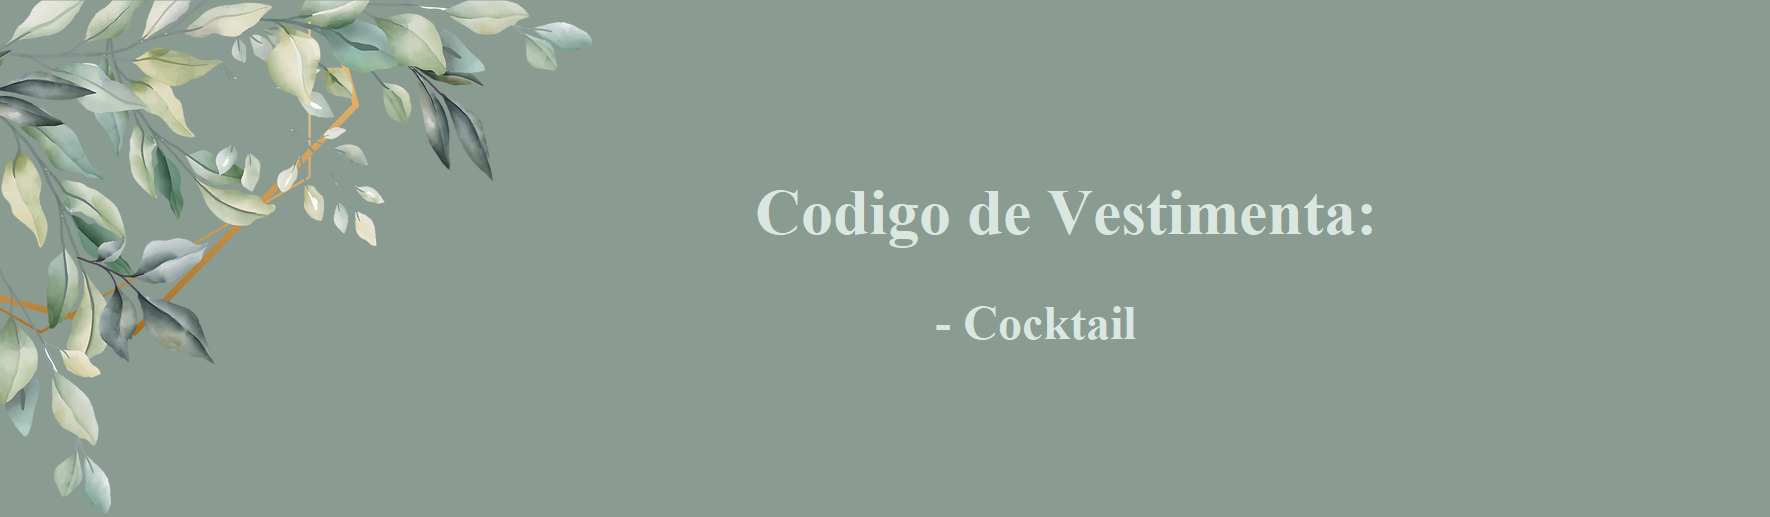
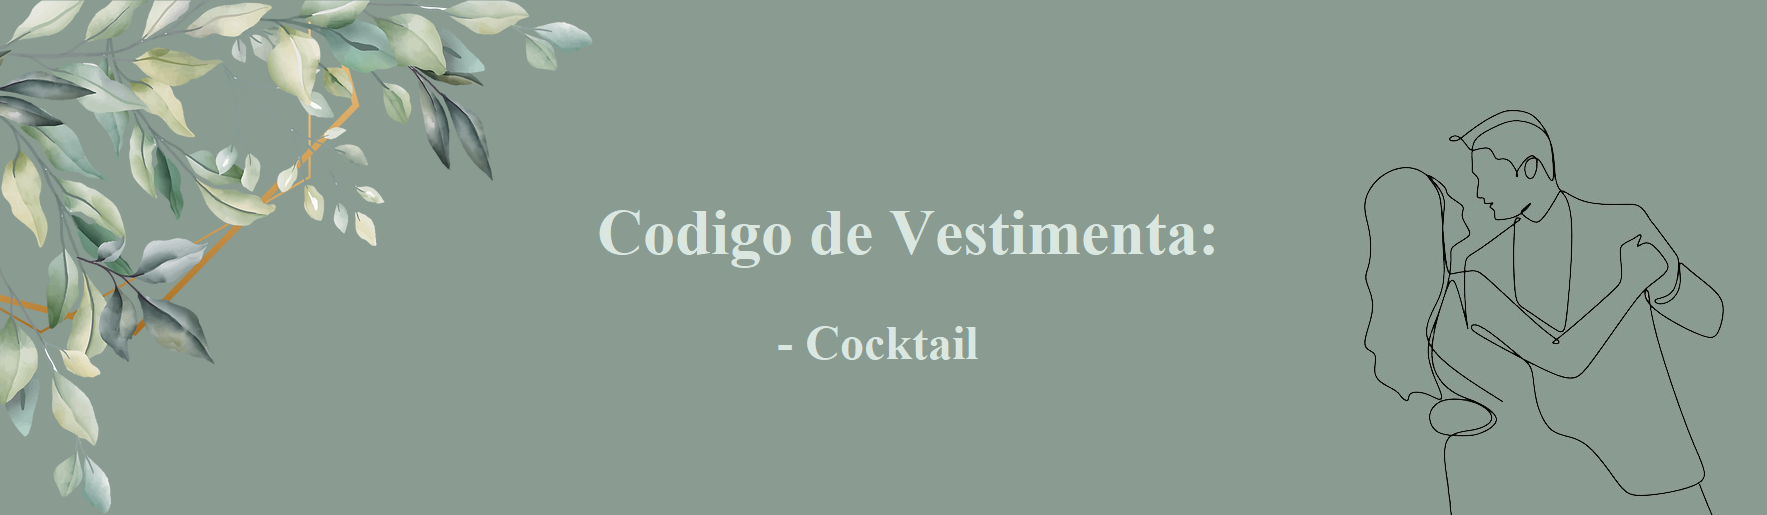
seccion cofre y edit img dresscode

diff --git a/src/components/LayoutCofre.jsx b/src/components/LayoutCofre.jsx
@@ -1,0 +1,63 @@
+import React from 'react'
+import '../assets/styles/layouts.css'
+
+export const LayoutCofre = () => {
+    const imgStr= '/src/assets/img/InvitacionOriginaria12.png';
+    const imageStr = (
+        <img
+            src={imgStr}
+            alt='transicionStr'
+            width={160}
+            height={140}
+        />
+  )
+  const rings= '/src/assets/img/chest.jpg';
+  const imageRings = (
+      <img
+          src={rings}
+          alt='rings'
+          width={160}
+          height={140}
+      />
+)
+  const chest= '/src/assets/img/chest.jpg';
+  const imageChest = (
+      <img
+          src={chest}
+          alt='chest'
+          width={160}
+          height={140}
+      />
+)
+  const imgEn= '/src/assets/img/InvitacionOriginaria13Rot.png';
+    const imageEn = (
+        <img
+            src={imgEn}
+            alt='transicionEn'
+            width={160}
+            height={140}
+        />
+  )
+
+  return (
+    
+        <div className='layoutCofre'>
+            <div className='imgUno'>
+                {imageStr}
+            </div>
+            <div className='labelMsg'>
+                {imageRings}
+                <h2>Por el regalo no te precupes hay Cofre!</h2>
+                {imageChest}
+            </div>
+            
+            <div className='imgDos'>
+                {imageEn}
+            </div>
+            
+            
+        </div>
+    
+    
+  )
+}

diff --git a/src/assets/styles/layouts.css b/src/assets/styles/layouts.css
@@ -44,7 +44,7 @@
     height: 80px;
     cursor: pointer;
     z-index: 2;
-    /* Agrega otros estilos necesarios */
+    border: 1px solid black;
   }
 
 /* ModalConfirmacion.css */
@@ -233,6 +233,31 @@
   .imgEndSalon{
     display: flex;
     position: relative;
-    margin-left: 880px;
+    margin-left: 1100px;
     text-align: right;
+  }
+   /*... Layout COFRE*/  
+  .layoutCofre{
+    display: grid;
+    position: relative;
+    margin-top: 20px;
+    text-align: left;
+  }
+
+  .imgUno{
+    margin-left: 1100px;
+  }
+  .labelMsg {
+    display: flex;
+    margin-left: 70px;
+    justify-content: space-evenly;
+  }
+
+  .labelMsg > h2{
+    font-size: 35px;
+  }
+
+  .imgDos{
+    margin-left: 30px;
+    margin-bottom: 15px;
   }

diff --git a/src/components/LayoutTrn02.jsx b/src/components/LayoutTrn02.jsx
@@ -1,4 +1,5 @@
 import React from 'react'
+import { LayoutCofre } from './LayoutCofre';
 
 export const LayoutTrn02 = () => {
 
@@ -11,12 +12,25 @@ export const LayoutTrn02 = () => {
             height={425}
     />
   )
+  const imgEndT= '/src/assets/img/transicion02.png';
+  const imageEndT = (
+    <img
+      src={imgEndT}
+      alt='transicionEndT'
+      width={1280}
+      height={100}
+    />
+  ) 
+
   return (
     <>
         <div>
             {imageTr02}
         </div>
-        
+        <LayoutCofre/>
+        <div>
+          {imageEndT}
+        </div>
     </>
     
   )

diff --git a/src/components/LayoutSalon.jsx b/src/components/LayoutSalon.jsx
@@ -13,13 +13,13 @@ export const LayoutSalon = () => {
         setImagenVisible(imagen);
     };
 
-    const imgEnd= '/src/assets/img/InvitacionOriginaria02Minus.png';
+    const imgEnd= '/src/assets/img/InvitacionOriginaria07Rot.png';
     const imageEnd = (
         <img
             src={imgEnd}
             alt='transicionEnd'
-            width={400}
-            height={220}
+            width={160}
+            height={140}
         />
   )  
 
